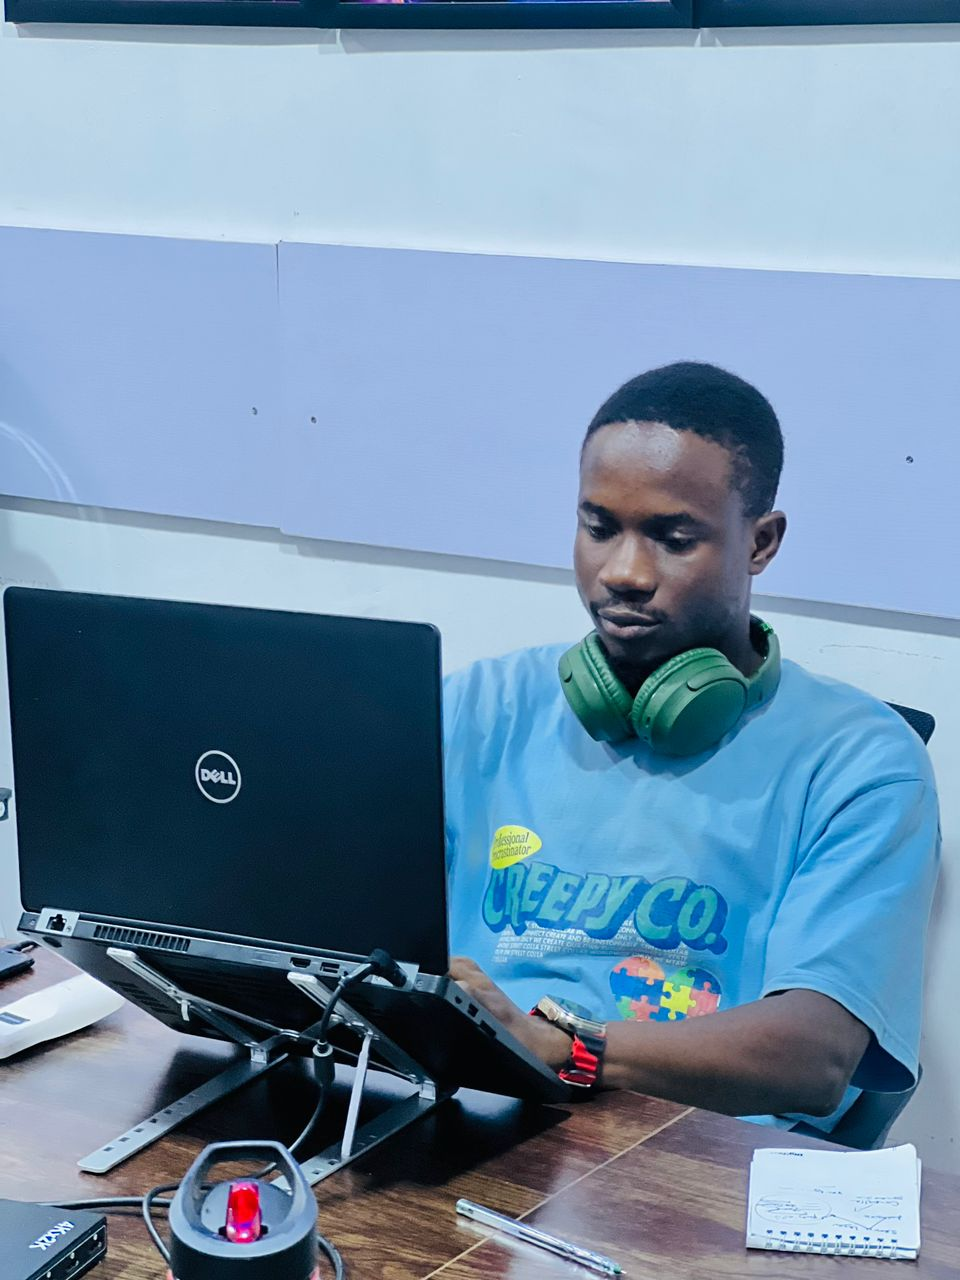
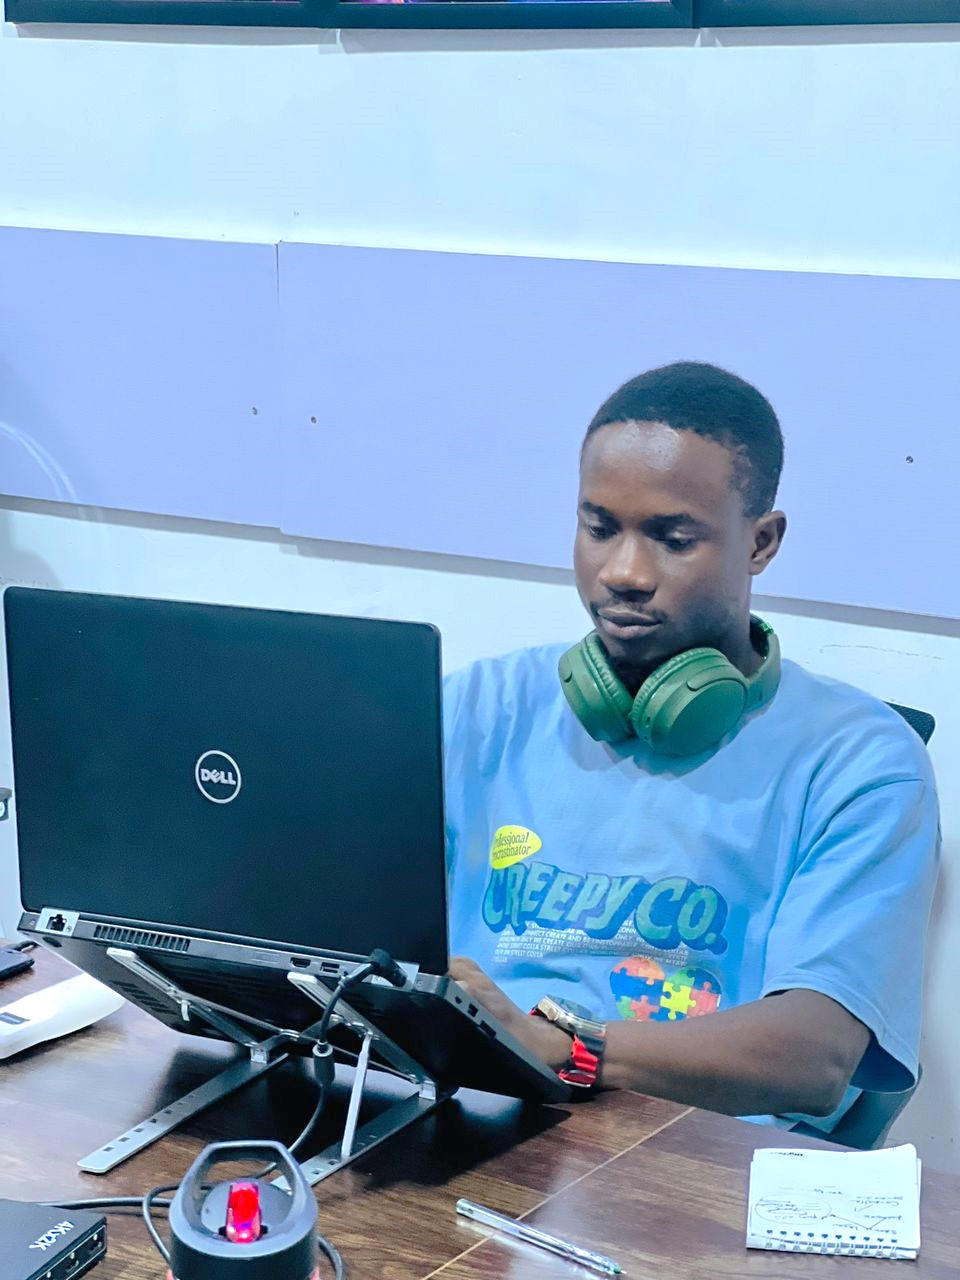
few project that they won't kill me for

diff --git a/array.js b/array.js
@@ -1,11 +1,27 @@
 let items = [
 	{
+		id: 12,
+		img: "../images/mmsports.png",
+		name: "MMSPORTS FOUNDATION",
+		anchor: `https://events.mmsportsfoundation.org/`,
+		span: "Next.js + TypeScript + Tailwind CSS + Shadcn UI + MongoDb + Express.Js + NodeJs + HTTPS Fetch API ",
+		description: `A dynamic web application for registration, showcasing and presenting of national track and field events in Nigeria. It showcases athletes, results, galleries, and inspiring stories. Engaging schools and communities through modern, user‑friendly design.`,
+	},
+	{
 		id: 11,
 		img: "../images/glam.png",
 		name: "Glamistry By Zihanny",
 		anchor: `https://glamistrybyzihanny.vercel.app/`,
 		span: "Next.js + TypeScript + Tailwind CSS + Shadcn UI + Firebase Auth + Firestore + IMBB + PayStack Payment",
 		description: `An e-commerce web app for a make up business that allows the automation of purchase and sales. Which includes skin park recommendation for people and addition or subtraction of materials from a package.`,
+	},
+	{
+		id: 13,
+		img: "../images/futh.png",
+		name: "Federal Teaching Hospital Wukari",
+		anchor: `https://futhwukari.netlify.app/`,
+		span: "Next.js + TypeScript + Tailwind CSS + Shadcn UI",
+		description: `A website for the Federal University Teaching Hospital, Wukari. Which serves to provide information about the hospital's services, facilities, and educational programs.`,
 	},
 	{
 		id: 1,
@@ -166,7 +182,7 @@ let skillItem = [
 		name: "CSS3",
 	},
 	{
-		id: 7,
+		id: 6,
 		img: "../images/nextjs.svg",
 		name: "Next.js",
 	},
@@ -176,57 +192,67 @@ let skillItem = [
 		name: "Firebase",
 	},
 	{
-		id: 7,
+		id: 8,
 		img: "../images/vercel.svg",
 		name: "Vercel",
 	},
 	{
-		id: 7,
+		id: 9,
 		img: "../images/git.svg",
 		name: "Git",
 	},
 	{
-		id: 7,
+		id: 10,
 		img: "../images/github.svg",
 		name: "GitHub",
 	},
 	{
-		id: 7,
+		id: 11,
 		img: "../images/vscode.svg",
 		name: "VSCode",
 	},
 	{
-		id: 7,
+		id: 12,
 		img: "../images/tailwind.svg",
 		name: "Tailwind",
 	},
 	{
-		id: 7,
+		id: 13,
 		img: "../images/figma.svg",
 		name: "Figma",
 	},
 	{
-		id: 7,
+		id: 14,
+		img: "../images/redux.svg",
+		name: "Flutter",
+	},
+	{
+		id: 15,
+		img: "../images/redux.svg",
+		name: "Dart",
+	},
+	{
+		id: 16,
 		img: "../images/redux.svg",
 		name: "Redux",
 	},
 	{
-		id: 7,
+		id: 17,
 		img: "../images/python.svg",
 		name: "Python",
 	},
 	{
-		id: 7,
+		id: 18,
 		img: "../images/mongodb.svg",
 		name: "MongoDB",
 	},
 	{
-		id: 6,
+		id: 19,
 		img: "../images/node.svg",
 		name: "Node.js",
 	},
 	{
-		id: 7,
+		id: 20,
 		img: "../images/nodejs.svg",
 		name: "Express.js",
 	},

diff --git a/app.css b/app.css
@@ -163,6 +163,11 @@ body {
 	animation: slideLeft 1s ease forwards;
 	animation-delay: 0.3s;
 }
+p.par {
+	margin: 20px 0;
+	line-height: 150%;
+	font-size: 1em;
+}
 .home-img img {
 	max-width: 400px;
 	height: auto;
